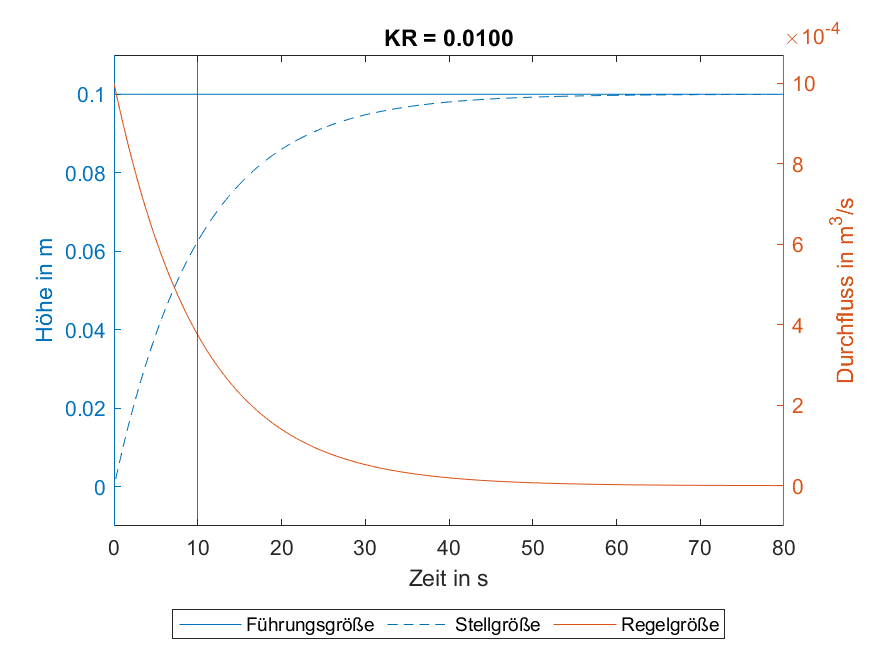
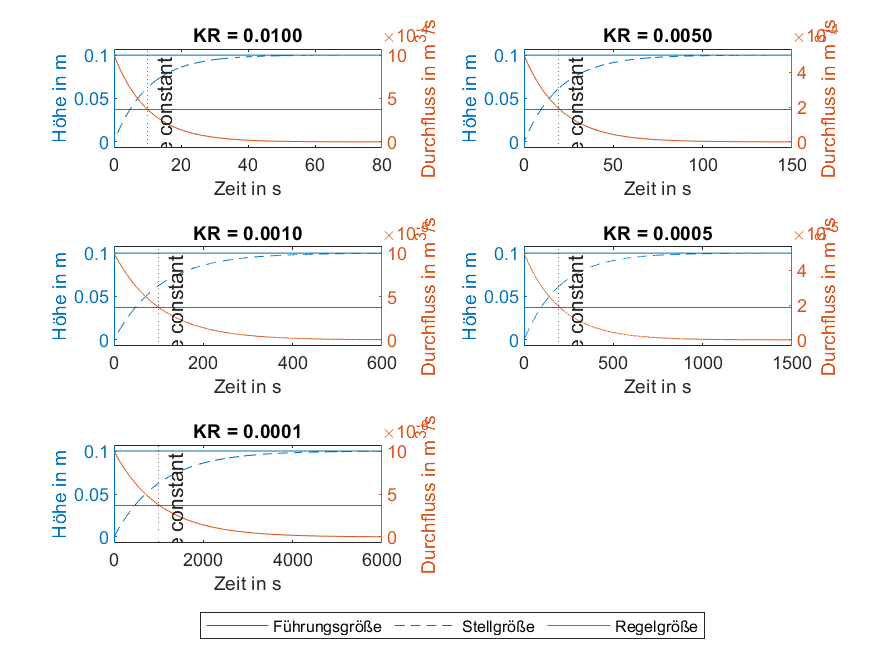
fit error margin to the x scale

diff --git a/versuch2/kessel.m b/versuch2/kessel.m
@@ -9,15 +9,15 @@ SURFACE_AREA = pi*(18e-2)^2;
 KR_LIST = [0.01,0.005,0.001,0.0005,0.0001];
 STOPTIME_LIST = [80, 150, 600, 1500, 6000];
 
-ERROR_MARGIN = 0.00001;
+ERROR_MARGIN_LIST = [1e-5, 1e-5, 1e-6, 1e-6, 1e-7];
 
 %___________________________________________________________________
 % load model
 model = 'kessel_modell';
 load_system(model);
 %     'MaxStep', num2str(STEPSIZE), ...
-% "SolverType","Variable-step", ...
-%     "SolverName", "VariableStepAuto", ...
+
+    
 
 %___________________________________________________________________
 % run simulation 
@@ -25,21 +25,24 @@ figure
 kessel_plot = tiledlayout('flow');
 
 % for i = 1:length(KR_LIST)
-for i = 1:1
+for i = 1:5
     set_param(model,...
-        'StopTime', num2str(STOPTIME_LIST(i)))
+        'StopTime', num2str(STOPTIME_LIST(i)), ...
+        "SolverType","Variable-step", ...
+        "SolverName", "VariableStepAuto" ...
+    )
 
     KR = KR_LIST(i);
     output = sim(model);
 
     % find the time constant value
-    max_value = output.yout{3}.Values.Data(1)
-    q_t = max_value * (1 - 0.632)
-    % q_time_const = 1- (max_value * 0.632)
+    ERROR_MARGIN = ERROR_MARGIN_LIST(i);
+    max_value = output.yout{3}.Values.Data(1);
+    q_t = max_value * (1 - 0.632);
     index_list = find(abs(output.yout{3}.Values.Data - q_t) < ERROR_MARGIN);
-    t_t_index = index_list(1)
-    t_t = output.tout(t_t_index)
-    % print()
+    t_t_index = index_list(1);
+    t_t = output.yout{3}.Values.Time(t_t_index);
+    disp(fprintf('KR = %.4f \t Tau = %.4f', KR, t_t))
 
     % plotting
     nexttile
@@ -51,14 +54,14 @@ for i = 1:1
         plot(output.tout, output.yout{2}.Values.Data);
         hold on
     yyaxis right
-        plot(output.tout, output.yout{3}.Values.Data);
+        plot(output.yout{3}.Values.Time, output.yout{3}.Values.Data);
         ylabel('Durchfluss in m^3/s')
         title(sprintf('KR = %.4f', KR))
         xlabel('Zeit in s')
 
         %plot time constant
-        xline(t_t)
-        % yline(max_value * (1 - 0.632))
+        xline(t_t, ':', 'Time constant')
+        yline(q_t)
 end
 
 lgd = legend('Führungsgröße', 'Stellgröße', 'Regelgröße');
